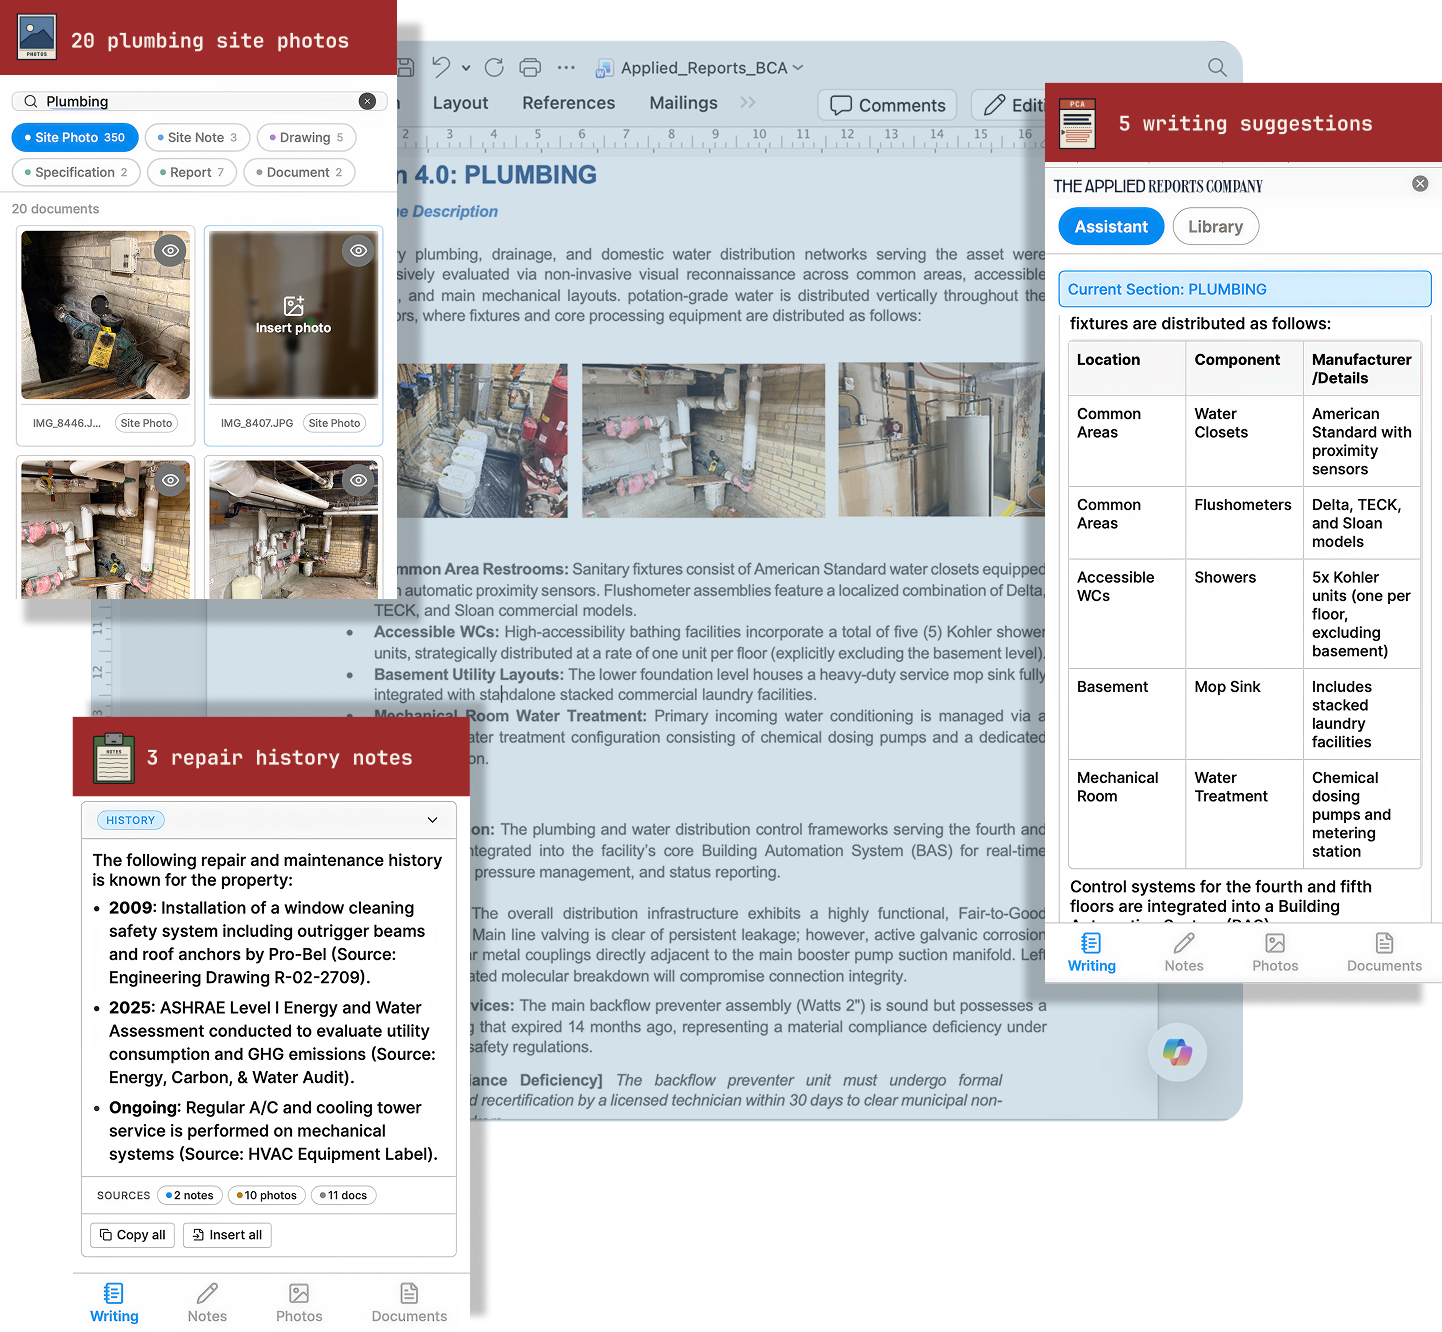
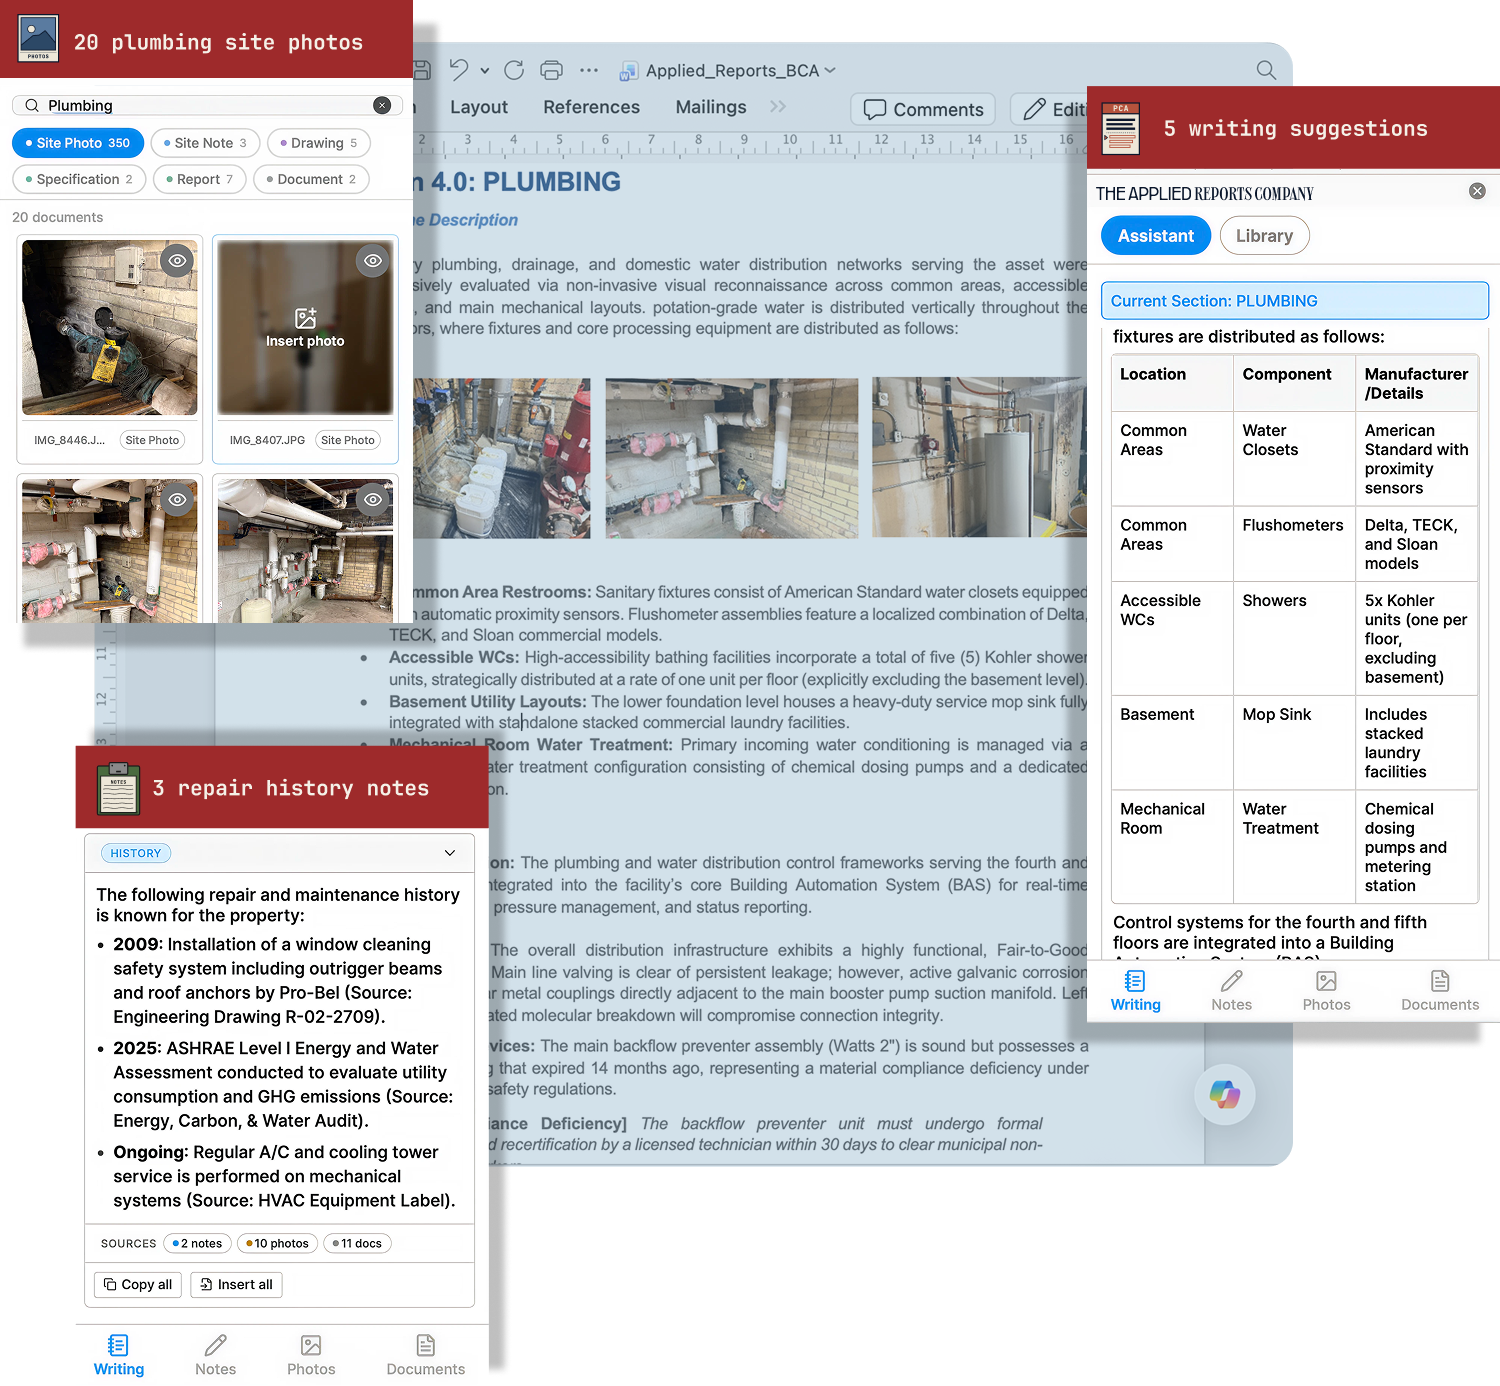
Update hero/nav presentation and section typography polish.
Overlay the navbar on the hero image with a larger logo, remove Built For panel tint, strengthen Built For card headings, center the demo banner content, and include the latest Otto demo asset update.

diff --git a/src/styles/global.css b/src/styles/global.css
@@ -140,7 +140,7 @@
   }
 
   .site-header__logo {
-    @apply h-8 w-auto md:h-10;
+    @apply h-10 w-auto md:h-12;
   }
 
   .site-header__nav {
